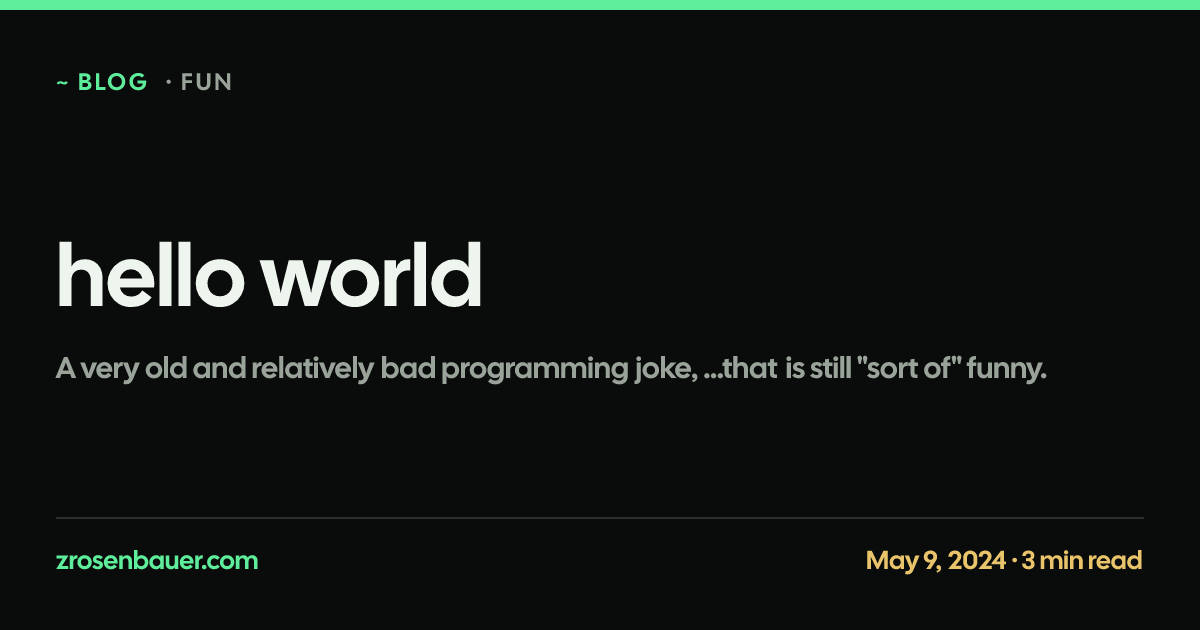
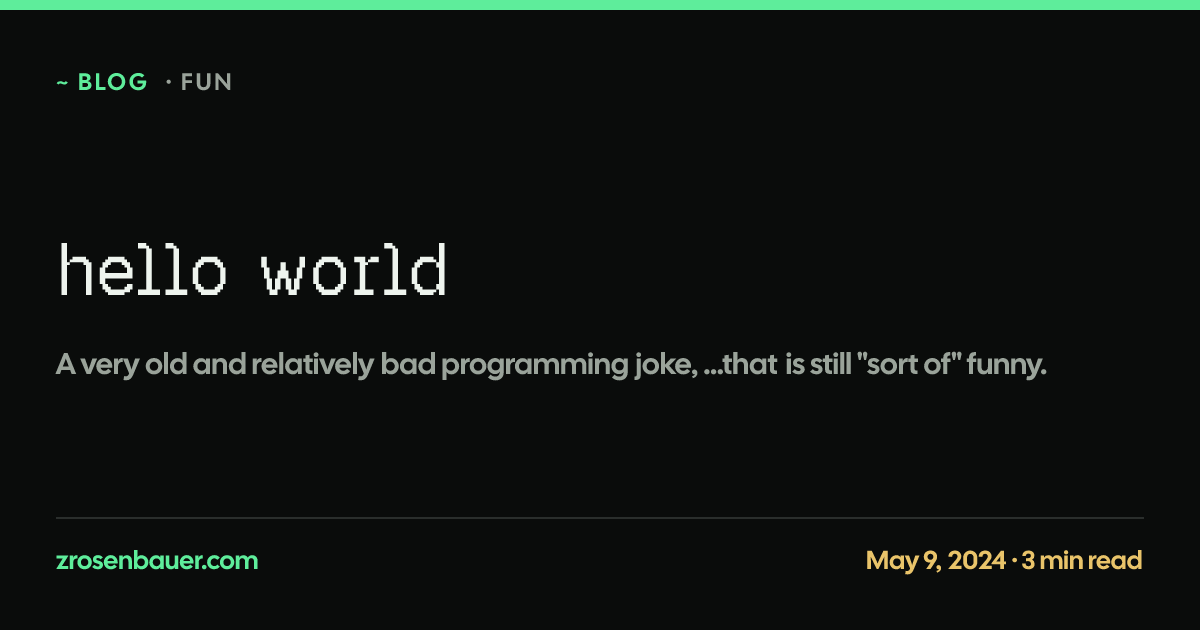
feat(og): flip site OG hierarchy + use GeistPixel for headings
- Site OG: '$ whoami' is now the big heading (in GeistPixel, the same
  font used for site h1s) with the echo below — username + tagline +
  cursor.
- Card OG (blog/design/page): title rendered in GeistPixel instead of
  CalSans, matching site headings. CalSans stays as the body font.
- generate-og.ts resolves geist/font/pixel out of node_modules and
  decompresses GeistPixel-Square.woff2 to TTF at build time via wawoff2
  (satori needs TTF/OTF).

Changed region(s): [[0.0308, 0.5429, 0.8942, 0.6032], [0.0308, 0.3619, 0.4008, 0.5127]]

diff --git a/scripts/og-template.tsx b/scripts/og-template.tsx
@@ -9,6 +9,9 @@ const COLORS = {
   muted: '#9aa39a',
 };
 
+const PIXEL_FONT = 'GeistPixel';
+const BODY_FONT = 'CalSans';
+
 export type OgInput =
   | { kind: 'site' }
   | {
@@ -42,10 +45,12 @@ const labelFor = (kind: Exclude<OgInput['kind'], 'site'>): string => {
   }
 };
 
-const titleFontSize = (title: string): number => {
-  if (title.length > 80) return 60;
-  if (title.length > 50) return 72;
-  return 88;
+// Pixel fonts run wider than proportional ones; tune sizes per length so titles
+// fit the 1200px canvas.
+const pixelTitleFontSize = (title: string): number => {
+  if (title.length > 50) return 44;
+  if (title.length > 30) return 56;
+  return 72;
 };
 
 const siteTemplate = (): ReactElement => {
@@ -58,7 +63,7 @@ const siteTemplate = (): ReactElement => {
         display: 'flex',
         flexDirection: 'column',
         padding: 56,
-        fontFamily: 'CalSans',
+        fontFamily: BODY_FONT,
         color: COLORS.fg,
         borderTop: `10px solid ${COLORS.primary}`,
       }}
@@ -85,39 +90,37 @@ const siteTemplate = (): ReactElement => {
           display: 'flex',
           flexDirection: 'column',
           justifyContent: 'center',
-          gap: 22,
+          gap: 28,
           marginTop: 12,
         }}
       >
-        <div style={{ display: 'flex', fontSize: 30, color: COLORS.muted }}>
+        <div
+          style={{
+            display: 'flex',
+            fontSize: 96,
+            lineHeight: 1.0,
+            color: COLORS.fg,
+            fontFamily: PIXEL_FONT,
+          }}
+        >
           <span style={{ color: COLORS.primary }}>$&nbsp;</span>
           <span>whoami</span>
         </div>
-        <div
-          style={{
-            display: 'flex',
-            fontSize: 104,
-            lineHeight: 1.0,
-            color: COLORS.fg,
-            letterSpacing: '-0.02em',
-          }}
-        >
-          zrosenbauer
-        </div>
 
-        <div style={{ display: 'flex', fontSize: 30, color: COLORS.muted, marginTop: 16 }}>
-          <span style={{ color: COLORS.primary }}>$&nbsp;</span>
-          <span>cat profile.txt</span>
-        </div>
         <div
           style={{
             display: 'flex',
+            flexDirection: 'column',
+            gap: 8,
+            paddingLeft: 4,
             fontSize: 32,
-            color: COLORS.fg,
             lineHeight: 1.35,
           }}
         >
-          typescript · node · rust · purveyor of all languages
+          <span style={{ color: COLORS.fg }}>zrosenbauer</span>
+          <span style={{ color: COLORS.muted }}>
+            typescript · node · rust · purveyor of all languages
+          </span>
         </div>
 
         <div
@@ -125,7 +128,7 @@ const siteTemplate = (): ReactElement => {
             display: 'flex',
             alignItems: 'center',
             gap: 12,
-            fontSize: 30,
+            fontSize: 32,
             color: COLORS.muted,
             marginTop: 4,
           }}
@@ -169,7 +172,7 @@ const cardTemplate = (input: Exclude<OgInput, { kind: 'site' }>): ReactElement =
         display: 'flex',
         flexDirection: 'column',
         padding: 56,
-        fontFamily: 'CalSans',
+        fontFamily: BODY_FONT,
         color: COLORS.fg,
         borderTop: `10px solid ${COLORS.primary}`,
       }}
@@ -203,15 +206,16 @@ const cardTemplate = (input: Exclude<OgInput, { kind: 'site' }>): ReactElement =
           display: 'flex',
           flexDirection: 'column',
           justifyContent: 'center',
-          gap: 28,
+          gap: 32,
         }}
       >
         <div
           style={{
             display: 'flex',
-            fontSize: titleFontSize(input.title),
-            lineHeight: 1.05,
+            fontSize: pixelTitleFontSize(input.title),
+            lineHeight: 1.1,
             color: COLORS.fg,
+            fontFamily: PIXEL_FONT,
           }}
         >
           {input.title}

diff --git a/scripts/generate-og.ts b/scripts/generate-og.ts
@@ -1,10 +1,12 @@
 import { existsSync } from 'node:fs';
 import { mkdir, readFile, writeFile } from 'node:fs/promises';
+import { createRequire } from 'node:module';
 import { dirname, join, resolve } from 'node:path';
 import { fileURLToPath } from 'node:url';
 
 import { Resvg } from '@resvg/resvg-js';
 import satori from 'satori';
+import wawoff2 from 'wawoff2';
 
 import { allBlogPosts, allDesigns, allPages } from '../.contentlayer/generated/index.mjs';
 import { template, type OgInput } from './og-template';
@@ -12,10 +14,30 @@ import { template, type OgInput } from './og-template';
 const __dirname = dirname(fileURLToPath(import.meta.url));
 const ROOT = resolve(__dirname, '..');
 const PUBLIC_OG = join(ROOT, 'public', 'og');
-const FONT_PATH = join(ROOT, 'public', 'fonts', 'CalSans-SemiBold.ttf');
+const CAL_SANS_PATH = join(ROOT, 'public', 'fonts', 'CalSans-SemiBold.ttf');
+
+// Geist Pixel ships only as WOFF2; satori needs TTF/OTF. Resolve the woff2 via
+// the package's `geist/font/pixel` export (which lives in dist/) and decompress
+// on the fly with wawoff2.
+const require = createRequire(import.meta.url);
+const GEIST_PIXEL_WOFF2_PATH = join(
+  dirname(require.resolve('geist/font/pixel')),
+  'fonts/geist-pixel/GeistPixel-Square.woff2'
+);
 
 const WIDTH = 1200;
 const HEIGHT = 630;
+
+type Fonts = { calSans: Buffer; geistPixel: Buffer };
+
+const loadFonts = async (): Promise<Fonts> => {
+  const [calSans, pixelWoff2] = await Promise.all([
+    readFile(CAL_SANS_PATH),
+    readFile(GEIST_PIXEL_WOFF2_PATH),
+  ]);
+  const decompressed = await wawoff2.decompress(pixelWoff2);
+  return { calSans, geistPixel: Buffer.from(decompressed) };
+};
 
 type Job = { outPath: string; input: OgInput };
 
@@ -68,11 +90,14 @@ const TYPE_DIR_MAP: Record<string, string> = {
   page: 'pages',
 };
 
-const renderJob = async (job: Job, fontData: Buffer): Promise<void> => {
+const renderJob = async (job: Job, fonts: Fonts): Promise<void> => {
   const svg = await satori(template(job.input), {
     width: WIDTH,
     height: HEIGHT,
-    fonts: [{ name: 'CalSans', data: fontData, weight: 600, style: 'normal' }],
+    fonts: [
+      { name: 'CalSans', data: fonts.calSans, weight: 600, style: 'normal' },
+      { name: 'GeistPixel', data: fonts.geistPixel, weight: 500, style: 'normal' },
+    ],
   });
   const resvg = new Resvg(svg, { fitTo: { mode: 'width', value: WIDTH } });
   const png = resvg.render().asPng();
@@ -83,7 +108,7 @@ const renderJob = async (job: Job, fontData: Buffer): Promise<void> => {
 
 const main = async (): Promise<void> => {
   const args = parseArgs();
-  const fontData = await readFile(FONT_PATH);
+  const fonts = await loadFonts();
 
   let jobs: Job[] = [siteJob(), ...blogJobs(), ...designJobs(), ...pageJobs()];
 
@@ -115,7 +140,7 @@ const main = async (): Promise<void> => {
 
   console.log(`Generating ${jobs.length} OG image${jobs.length === 1 ? '' : 's'}…`);
   for (const job of jobs) {
-    await renderJob(job, fontData);
+    await renderJob(job, fonts);
   }
   console.log('Done.');
 };
